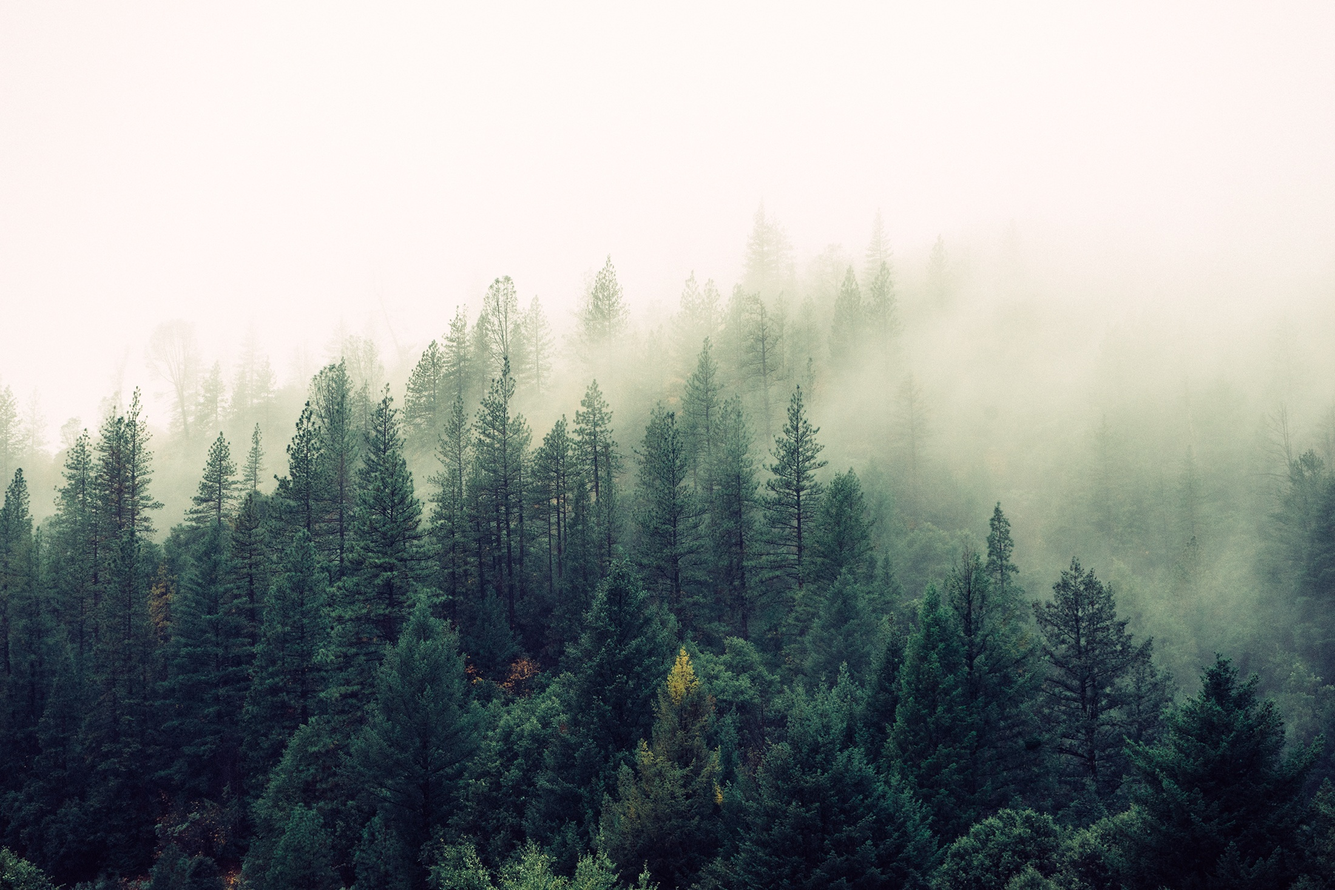
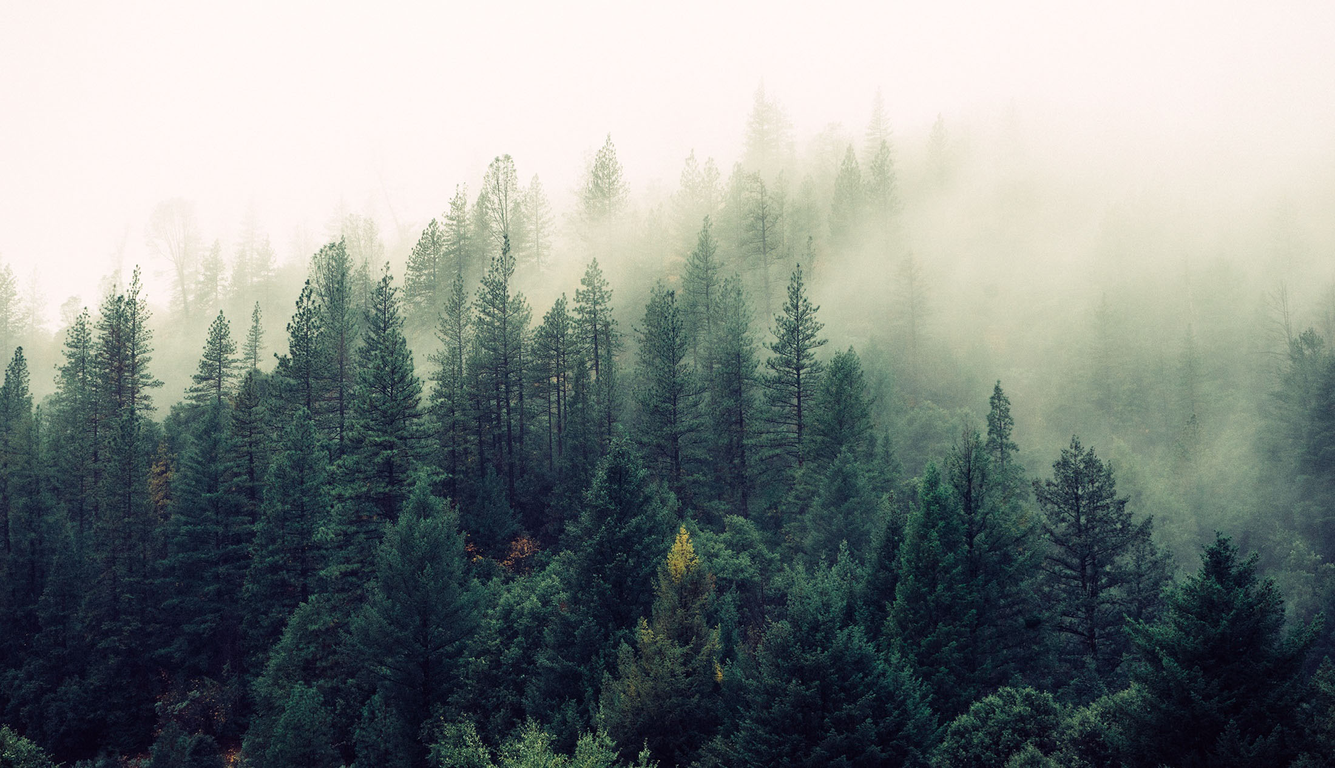
fixed bg and content color bg

diff --git a/_layouts/post.html b/_layouts/post.html
@@ -12,24 +12,23 @@ layout: default
     {{ content }}
   </div>
   
+  {% if page.comments %}
+    <div id="disqus_thread"></div>
+        <script type="text/javascript">
+            /* * * CONFIGURATION VARIABLES: EDIT BEFORE PASTING INTO YOUR WEBPAGE * * */
+            var disqus_shortname = 'steveafrost'; // required: replace example with your forum shortname
+            // var disqus_developer = 1; // Comment out when the site is live
+            var disqus_identifier = "{{ page.url }}";
+
+            /* * * DON'T EDIT BELOW THIS LINE * * */
+            (function() {
+                var dsq = document.createElement('script'); dsq.type = 'text/javascript'; dsq.async = true;
+                dsq.src = '//' + disqus_shortname + '.disqus.com/embed.js';
+                (document.getElementsByTagName('head')[0] || document.getElementsByTagName('body')[0]).appendChild(dsq);
+            })();
+        </script>
+        <noscript>Please enable JavaScript to view the <a href="http://disqus.com/?ref_noscript">comments powered by Disqus.</a></noscript>
+        <a href="http://disqus.com" class="dsq-brlink">comments powered by <span class="logo-disqus">Disqus</span></a>
+  {% endif %}
+  
 </article>
-
-
-{% if page.comments %}
-<div id="disqus_thread"></div>
-    <script type="text/javascript">
-        /* * * CONFIGURATION VARIABLES: EDIT BEFORE PASTING INTO YOUR WEBPAGE * * */
-        var disqus_shortname = 'steveafrost'; // required: replace example with your forum shortname
-        // var disqus_developer = 1; // Comment out when the site is live
-        var disqus_identifier = "{{ page.url }}";
-
-        /* * * DON'T EDIT BELOW THIS LINE * * */
-        (function() {
-            var dsq = document.createElement('script'); dsq.type = 'text/javascript'; dsq.async = true;
-            dsq.src = '//' + disqus_shortname + '.disqus.com/embed.js';
-            (document.getElementsByTagName('head')[0] || document.getElementsByTagName('body')[0]).appendChild(dsq);
-        })();
-    </script>
-    <noscript>Please enable JavaScript to view the <a href="http://disqus.com/?ref_noscript">comments powered by Disqus.</a></noscript>
-    <a href="http://disqus.com" class="dsq-brlink">comments powered by <span class="logo-disqus">Disqus</span></a>
-{% endif %}

diff --git a/_sass/_base.scss b/_sass/_base.scss
@@ -15,9 +15,9 @@ dl, dd, ol, ul, figure {
  */
 body {
     font: $base-font-weight #{$base-font-size}/#{$base-line-height};
-    font-family: Lato, sans-serif;
+    font-family: $base-font-family;
     color: #000000;
-    background: url('../assets/steveafrostbg.jpg');
+    background: url('../assets/steveafrostbg.jpg') fixed;
     -webkit-text-size-adjust: 100%;
     -webkit-font-feature-settings: "kern" 1;
     -moz-font-feature-settings: "kern" 1;
@@ -157,14 +157,12 @@ pre {
  * Wrapper
  */
 .wrapper {
-    background-color: #FFFFFF;
     max-width: -webkit-calc(#{$content-width} - (#{$spacing-unit} * 2));
     max-width:         calc(#{$content-width} - (#{$spacing-unit} * 2));
     margin-right: auto;
     margin-left: auto;
     padding-right: $spacing-unit * 2;
     padding-left: $spacing-unit * 2;
-    padding-bottom: $spacing-unit * 2;
     @extend %clearfix;
 
     @include media-query($on-laptop) {
@@ -172,7 +170,6 @@ pre {
         max-width:         calc(#{$content-width} - (#{$spacing-unit}));
         padding-right: $spacing-unit / 2;
         padding-left: $spacing-unit / 2;
-        padding-bottom: $spacing-unit / 2;
     }
 }
 

diff --git a/css/main.scss b/css/main.scss
@@ -6,8 +6,8 @@
 
 
 // Our variables
-$base-font-family: "Helvetica Neue", Helvetica, Arial, sans-serif;
-$base-font-size:   16px;
+$base-font-family: Lato, Helvetica, Arial, sans-serif;
+$base-font-size:   20px;
 $base-font-weight: 400;
 $small-font-size:  $base-font-size * 0.875;
 $base-line-height: 1.5;
@@ -23,10 +23,10 @@ $grey-color-light: lighten($grey-color, 40%);
 $grey-color-dark:  darken($grey-color, 25%);
 
 // Width of the content area
-$content-width:    800px;
+$content-width:    900px;
 
 $on-palm:          600px;
-$on-laptop:        800px;
+$on-laptop:        900px;
 
 
 

diff --git a/_sass/_layout.scss b/_sass/_layout.scss
@@ -11,6 +11,7 @@
 
 .site-title {
     font-size: 26px;
+    font-weight: 300;
     line-height: 56px;
     margin-bottom: 0;
     float: left;
@@ -241,4 +242,15 @@
             font-size: 18px;
         }
     }
+}
+
+/* Custom Article CSS */
+article.post {
+  background-color: #FFF7F5;
+  padding: $spacing-unit * 2;
+  border-radius: 25px;
+  
+  @include media-query($on-laptop) {
+      padding: $spacing-unit / 2;
+  }
 }
